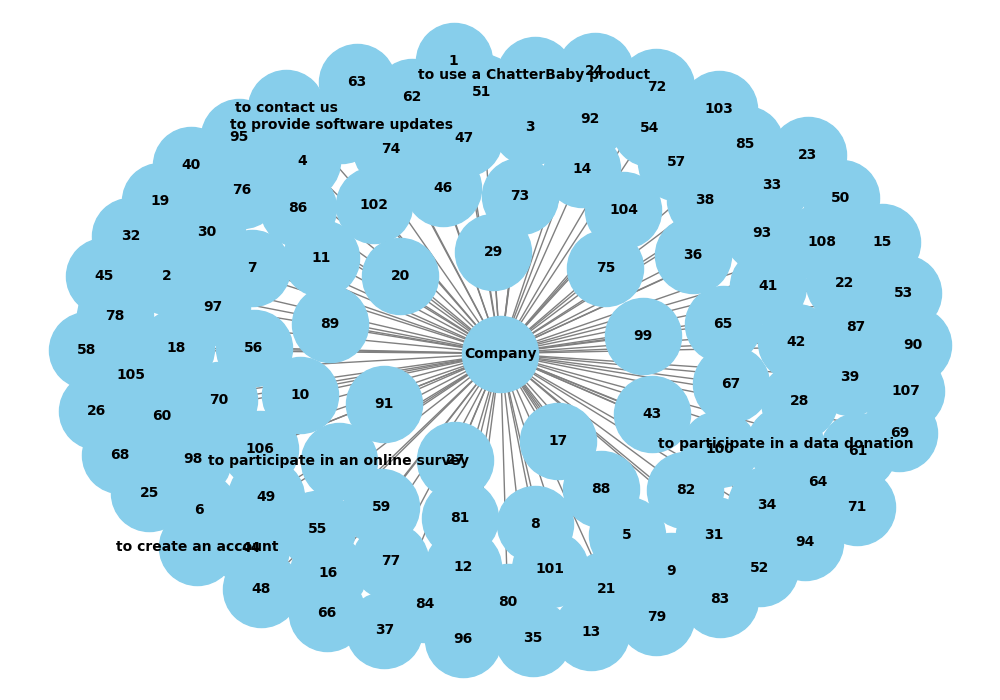
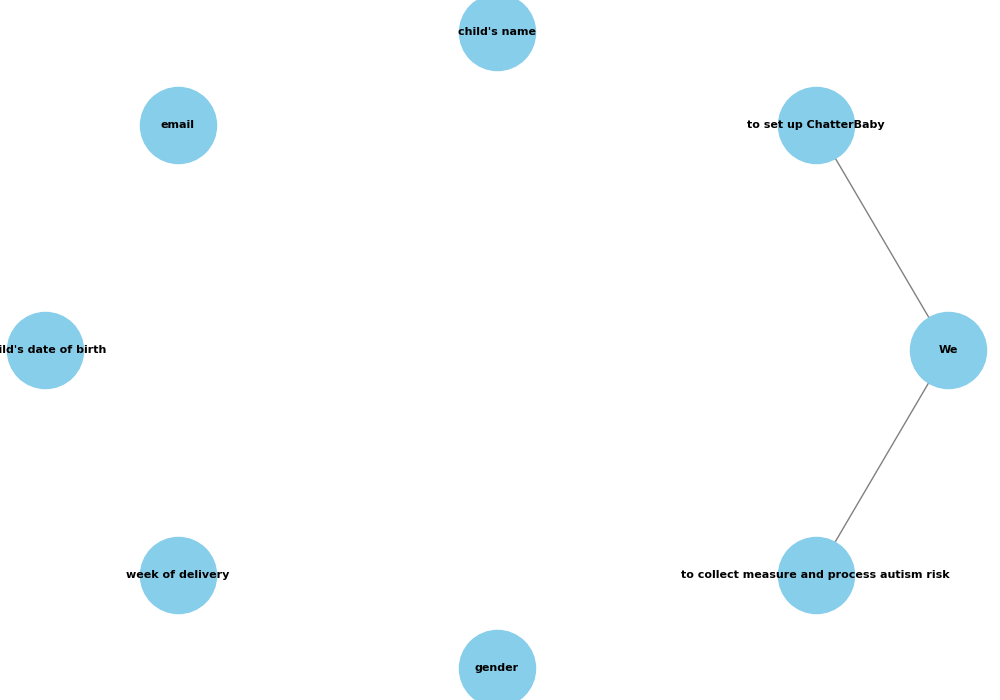
fixes

diff --git a/index.html b/index.html
@@ -45,7 +45,7 @@
         {% endfor %}
     </table>
 
-    <h1>Parsed Privacy Policies</h1>
+    <!--<h1>Parsed Privacy Policies</h1>
     <table border="1">
         <tr>
             <th>ID</th>
@@ -63,11 +63,20 @@
             <td>{{ entry[4] }}</td>
         </tr>
         {% endfor %}
-    </table>
+    </table>-->
 
 
     <h1>Graph</h1>
-    <a href="{{ url_for('graph') }}">View Graph</a>
+    
+    <form action="{{ url_for('graph') }}" method="GET">
+        <label for="response_id">Enter Response ID:</label>
+        <input type="text" id="response_id" name="response_id" required>
+        <button type="submit">View Graph</button>
+    </form>
+
+    {% if graph_image %}
+    <img src="{{ url_for('static', filename=graph_image) }}" alt="Graph">
+    {% endif %}
 
 </body>
 </html>

diff --git a/app.py b/app.py
@@ -44,14 +44,15 @@ def process_input():
        "Data attribute: pieces of sensitive information. Data item is an instance of a data attribute. (Attribute: age. Item: 26).\n"
        "Privacy Policy::=(role, purpose, data attribute) Remember these definitions. \n"
        "Convert this natural language into the privacy policy tuples. An example output can look like the following: (Company, to create an account, name) \n"
-       "(Analyzer, to fight spam/malware, IP address)"
+       "(Analyzer, to fight spam/malware, IP address) \n"
+       "(We, to share content, gender) \n"
    )
 
     # Process input with ChatGPT
     completion = client.chat.completions.create(
         model="gpt-4o",
         messages=[
-           {"role": "system", "content": "You extract (role, purpose, data attribute) tuples from the given privacy policy"},
+           {"role": "system", "content": "You extract (role, purpose, data attribute) tuples from the given privacy policy. Generate tuples strictly based on words explicitly stated in the privacy policy. No numbering or commas in purposes."},
            {"role": "user", "content": prompt + user_input}
         ]
     )
@@ -68,7 +69,8 @@ def process_input():
     connection.commit()
     cursor.close()
     connection.close()
-    return f"Stored response: {chatgpt_response}"
+    return redirect('/')
+    #return f"Stored response: {chatgpt_response}"
 
 @app.route('/delete/<int:entry_id>', methods=['POST'])
 def delete_entry(entry_id):
@@ -93,7 +95,7 @@ def parse_entry(entry_id):
     cursor.close()
 
     # Extract tuples from response text
-    parsed_entries = re.findall(r'\(([^)]+)\)', response)
+    parsed_entries = re.findall(r'\(([^)]+)\)', response)  
     parsed_entries = [tuple(entry.split(', ')) for entry in parsed_entries]
 
     connection = mysql.connector.connect(**db_config)
@@ -110,11 +112,12 @@ def parse_entry(entry_id):
     return redirect('/')
 
 
-@app.route('/graph')
+@app.route('/graph', methods=['GET', 'POST'])
 def graph():
+    response_id = request.args.get('response_id')
     connection = mysql.connector.connect(**db_config)
     cursor = connection.cursor()
-    cursor.execute("SELECT * FROM parsed_responses")
+    cursor.execute("SELECT * FROM parsed_responses WHERE response_id = %s", (response_id,))
     parsed_entries = cursor.fetchall()
     cursor.close()
     connection.close()
@@ -124,21 +127,21 @@ def graph():
 
     # Add nodes and edges
     for entry in parsed_entries:
-        role, purpose, data_attribute, response_id = entry[0],entry[1],entry[2],entry[3]
+        role, purpose, data_attribute = entry[1],entry[2],entry[3]
         G.add_node(role, type='role')
         G.add_node(purpose, type='purpose')
         G.add_node(data_attribute, type='data_attribute')
-        G.add_edges_from([(role, purpose), (purpose, data_attribute)])
+        G.add_edges_from([(role, purpose)],style='dashed')
 
     # Draw the graph
     plt.figure(figsize=(10, 7))
-    pos = nx.spring_layout(G)
+    pos = nx.circular_layout(G, center=[0.5, 0.5])
     
     random.seed(42)
     np.random.seed(42)
 
 
-    nx.draw(G, pos, with_labels=True, node_size=3000, node_color='skyblue', font_size=10, font_weight='bold', edge_color='gray')
+    nx.draw(G, pos, with_labels=True, node_size=3000, node_color='skyblue', font_size=8, font_weight='bold', edge_color='gray')
 
     # Save the graph to a file
     graph_path = 'static/graph.png'
